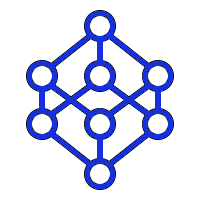
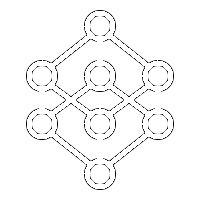
whiteout

Changed region(s): [[0.12, 0.03, 0.87, 0.96]]

diff --git a/index.html b/index.html
@@ -247,45 +247,36 @@
       <div class="row images-vcenter">
 			
 	      <div class="col-lg-12 pb-3 text-center">
-          <h2 class="section-heading" id="funstuff">Fun Stuff</h2>
+          <h2 class="section-heading" id="funstuff">Hobbies and Interests</h2>
           <hr class="divider black my-4" />
         </div>
 			
 	      <!-- Fun stuff includes links to Mountain Biking, Skiing and Spotify playlists -->
-				<div class="col-lg-3 col-sm-6 text-center">
+				<div class="col-lg-4 col-sm-6 text-center">
           <a class="href-black" href="https://downing.io/Dreams/">
-					<img src="img/portfolio/thumbnails/dreams.jpg" 
+					<img src="img/cooking.jpeg" 
 						   class="img-fluid images-border images-size-mtb"
-						   alt="Deep Dreams">
+						   alt="Stock Photo of Stock">
 					</a>
-          <h3 class="mt-4 mb-4">Dreams</h3>
-        </div>
-				
-	      <div class="col-lg-3 col-sm-6 text-center">
-          <a class="href-black" href="https://downing.io/Mountain-Biking/">
-					<img src="img/portfolio/thumbnails/mtn-biking.jpg" 
-						   class="img-fluid images-border images-size-mtb"
-						   alt="Mountain Biking">
-					</a>
-          <h3 class="mt-4 mb-4">Mountain Biking</h3>
+          <h3 class="mt-4 mb-4">Cooking</h3>
         </div>
 			
-        <div class="col-lg-3 col-sm-6 text-center">
-          <a class="href-black" href="https://downing.io/Skiing/">
-            <img src="img/portfolio/thumbnails/skiing.jpg" 
+        <div class="col-lg-4 col-sm-6 text-center">
+          <a class="href-black" href="https://chess.com/member/rutherfodium/">
+            <img src="img/chess.jpeg" 
                  class="img-fluid images-border-skiing images-size-skiing" 
-                 alt="SKIING!">
+                 alt="Chess">
           </a>
-          <h3 class="mt-4 mb-4">SKIING!</h3>
+          <h3 class="mt-4 mb-4">Chess</h3>
         </div>
-				
-        <div class="col-lg-3 col-sm-6 text-center">
-          <a class="href-black" href="https://downing.io/Spotify/">
-            <img src="img/portfolio/thumbnails/spotify.png" 
-                 class="img-fluid"
-                 alt="Spotify Playlists!">
-          </a>
-          <h3 class="mt-4 mb-4">Spotify Playlists!</h3>
+
+        <div class="col-lg-4 col-sm-6 text-center">
+          <a class="href-black" href="https://downing.io/Mountain-Biking/">
+					<img src="img/philosophy.jpg" 
+						   class="img-fluid images-border images-size-mtb"
+						   alt="philosophy">
+					</a>
+          <h3 class="mt-4 mb-4">Philosophy</h3>
         </div>
      </div>
 	    
@@ -316,7 +307,7 @@
 							!!!!!!!     CHANGE THE FORMSPREE ENDPOINT TO YOUR OWN EMAIL IF YOU FORK THIS REPO. MUCH THANKS     !!!!!!!          
 							!!!!!!!!!!!!!!!!!!!!!!!!!!!!!!!!!!!!!!!!!!!!!!!!!!!!!!!!!!!!!!!!!!!!!!!!!!!!!!!!!!!!!!!!!!!!!!!!!!!!!!!!!!
 					-->
-          <form action="https://formspree.io/mdopovkv" method="POST" class="form-horizontal" role="form">
+          <form action="https://formspree.io/f/mqkwgvna" method="POST" class="form-horizontal" role="form">
             <!-- Need a name, reply to email, and a message -->
             <div class="form-group">
               <input type="text" name="name" placeholder="Your Name" class="form-control" required>

diff --git a/css/creative.css b/css/creative.css
@@ -9993,7 +9993,7 @@ html {
 hr.divider {
   max-width: 3.25rem;
   border-width: 0.2rem;
-  border-color: #1431db;
+  border-color: #ffffff;
 }
 
 hr.light {
@@ -10038,7 +10038,7 @@ hr.light {
   color: #1431db;
 }
 #mainNav .navbar-nav .nav-item .nav-link.active {
-  color: #1431db !important;
+  color: #a8a8a8 !important;
 }
 @media (min-width: 992px) {
   #mainNav {

diff --git a/css/index.css b/css/index.css
@@ -199,7 +199,7 @@ hr.black {
 }
 
 .images-size-skiing {
-	width: 90%;
+	width: 80%;
 	height: auto;
 }
 
